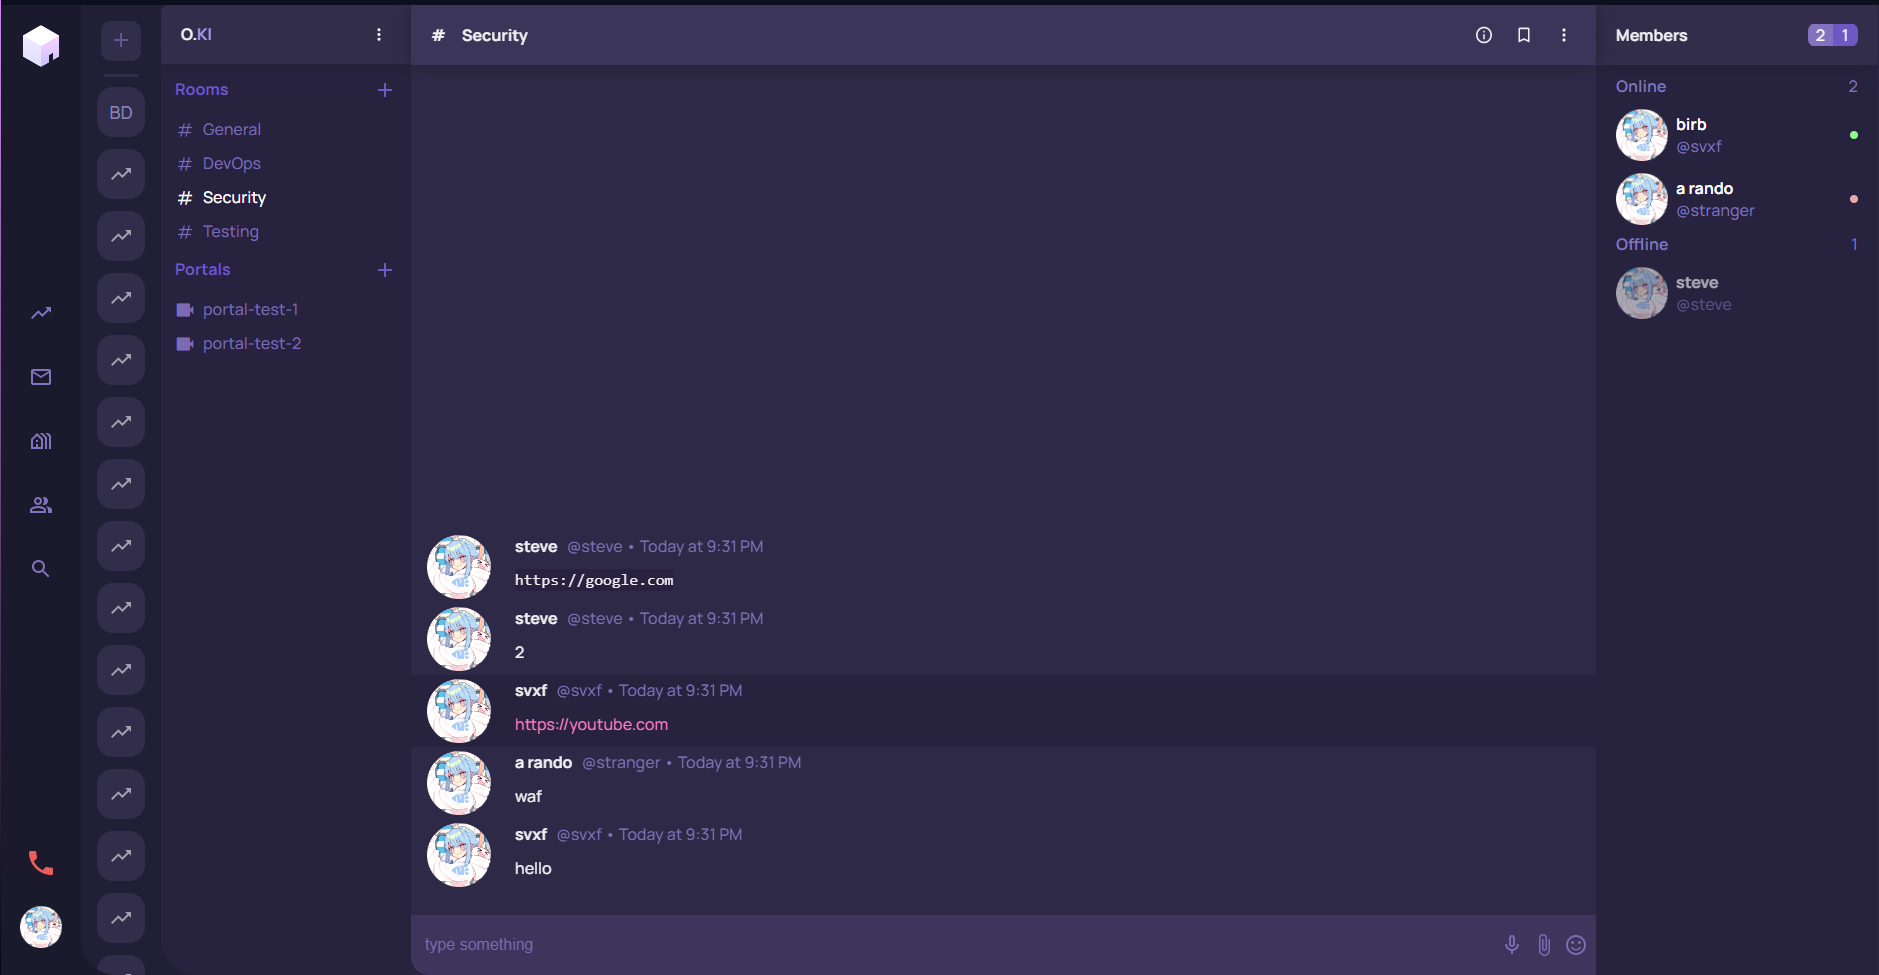
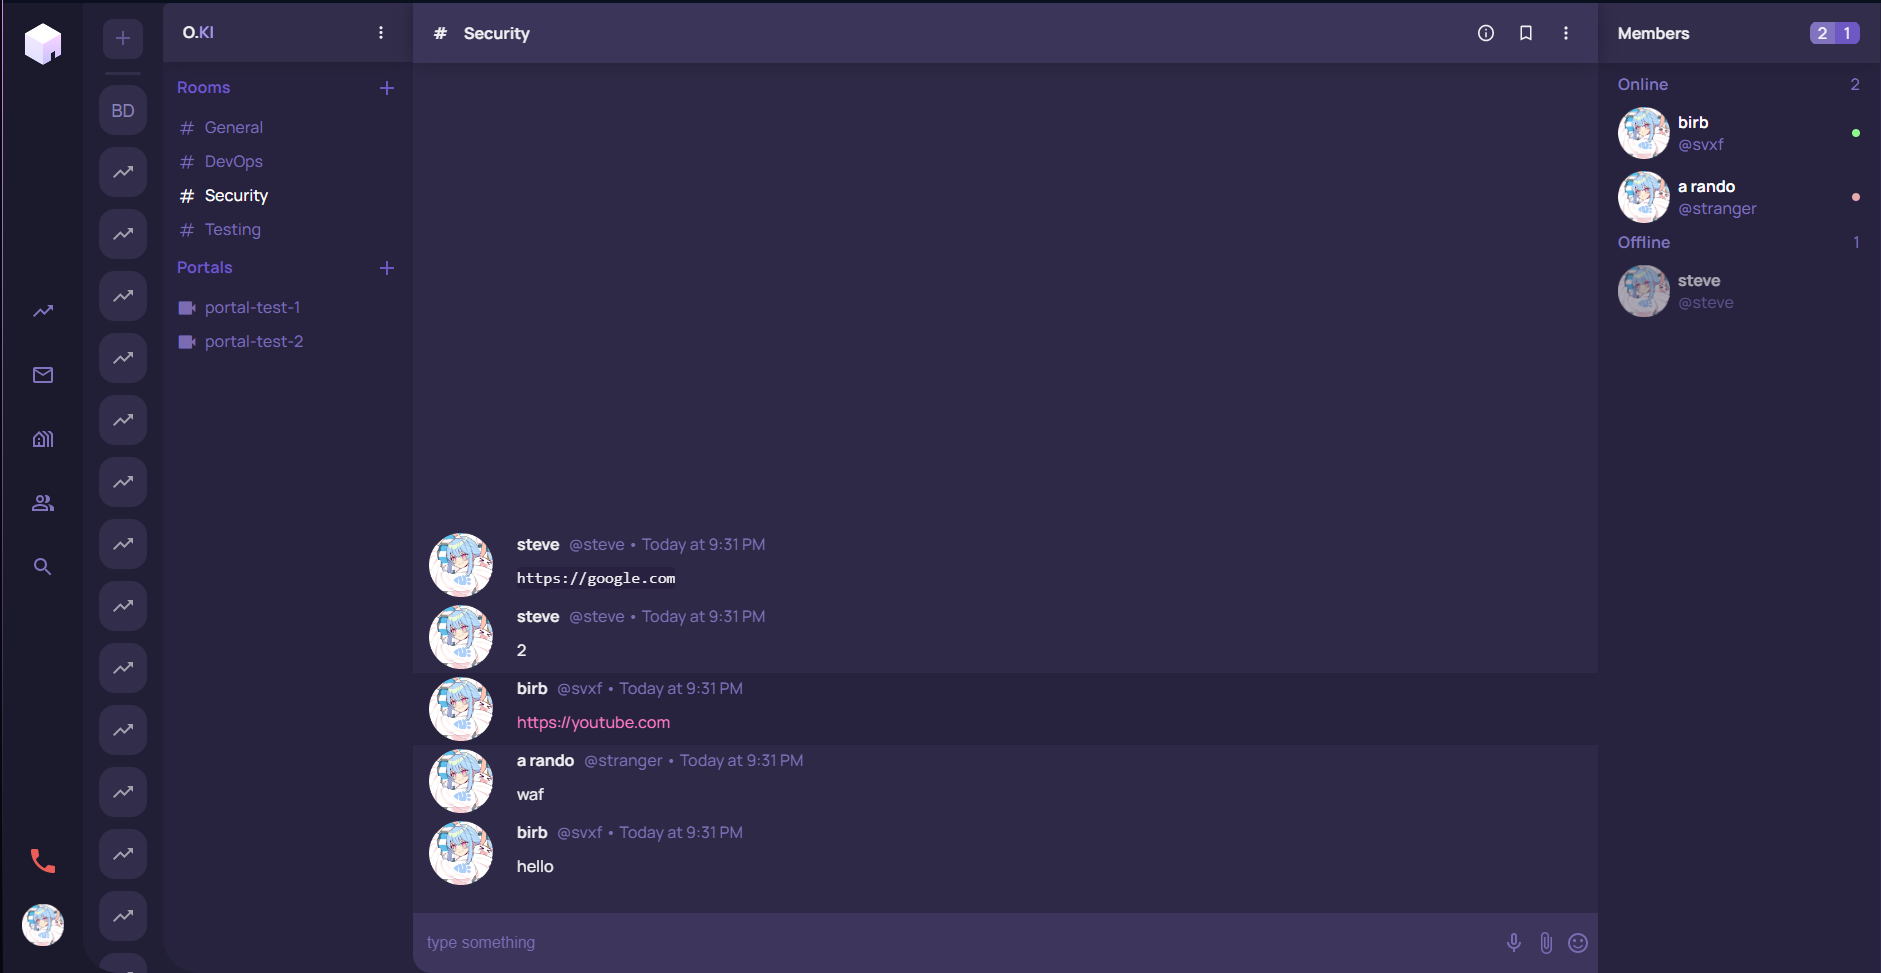
idk

diff --git a/src/components/ChatBody.tsx b/src/components/ChatBody.tsx
@@ -19,9 +19,9 @@ function ChatBody() {
         
         <Messages>
         {/* displayName, userName, date, content */}
-        <Message displayName='svxf' userName='svxf' date='Today at 9:31 PM' content='hello' />
+        <Message displayName='birb' userName='svxf' date='Today at 9:31 PM' content='hello' />
         <Message displayName='a rando' userName='stranger' date='Today at 9:31 PM' content='waf' />
-        <Message displayName='svxf' userName='svxf' date='Today at 9:31 PM' content='https://youtube.com' anchor />
+        <Message displayName='birb' userName='svxf' date='Today at 9:31 PM' content='https://youtube.com' anchor />
         <Message displayName='steve' userName='steve' date='Today at 9:31 PM' content='2' />
         <Message displayName='steve' userName='steve' date='Today at 9:31 PM' content='https://google.com' code />
         </Messages>
